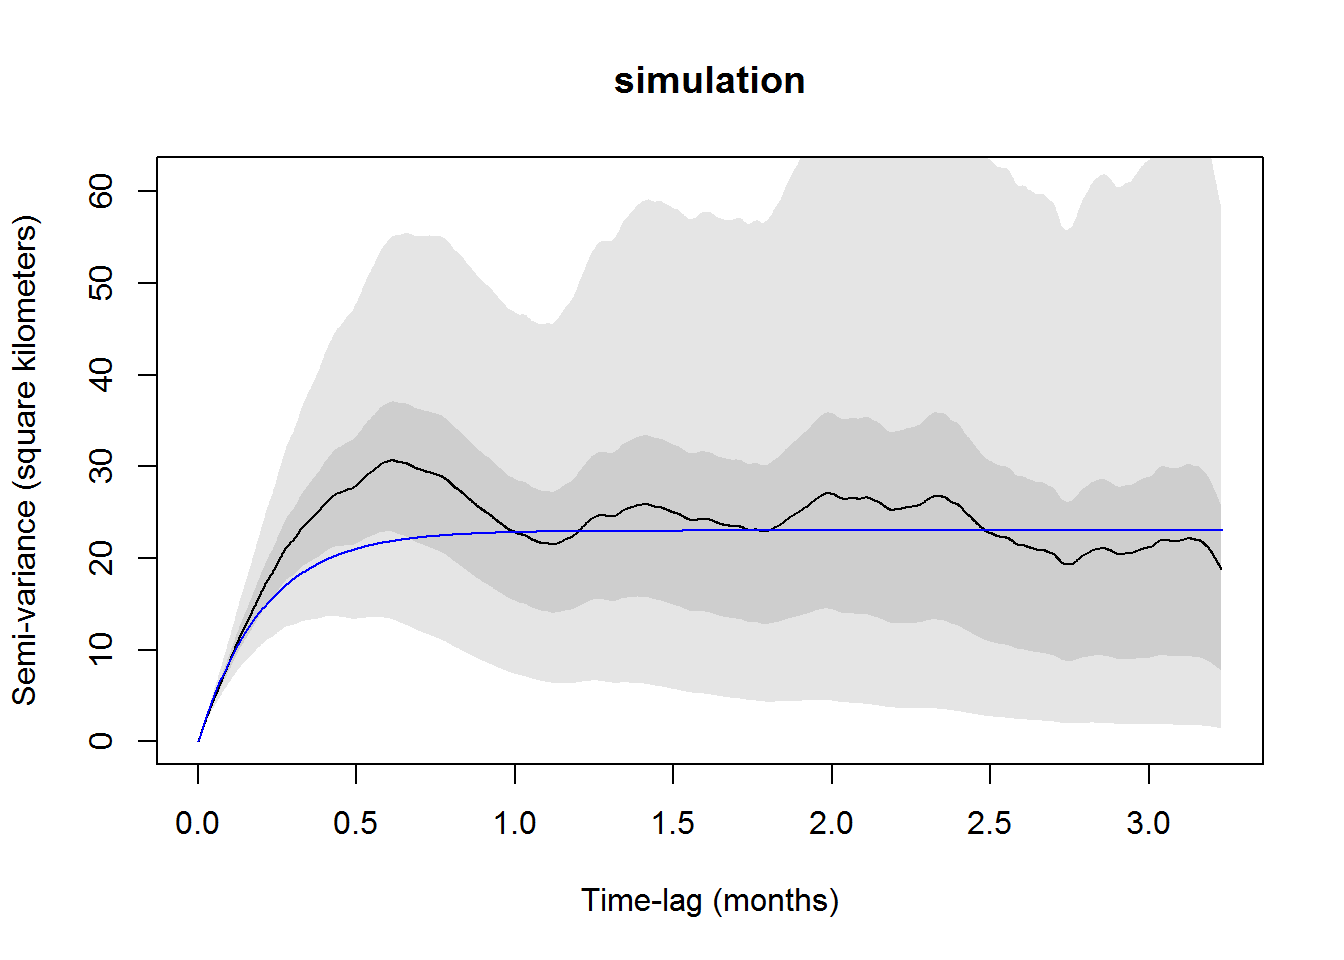
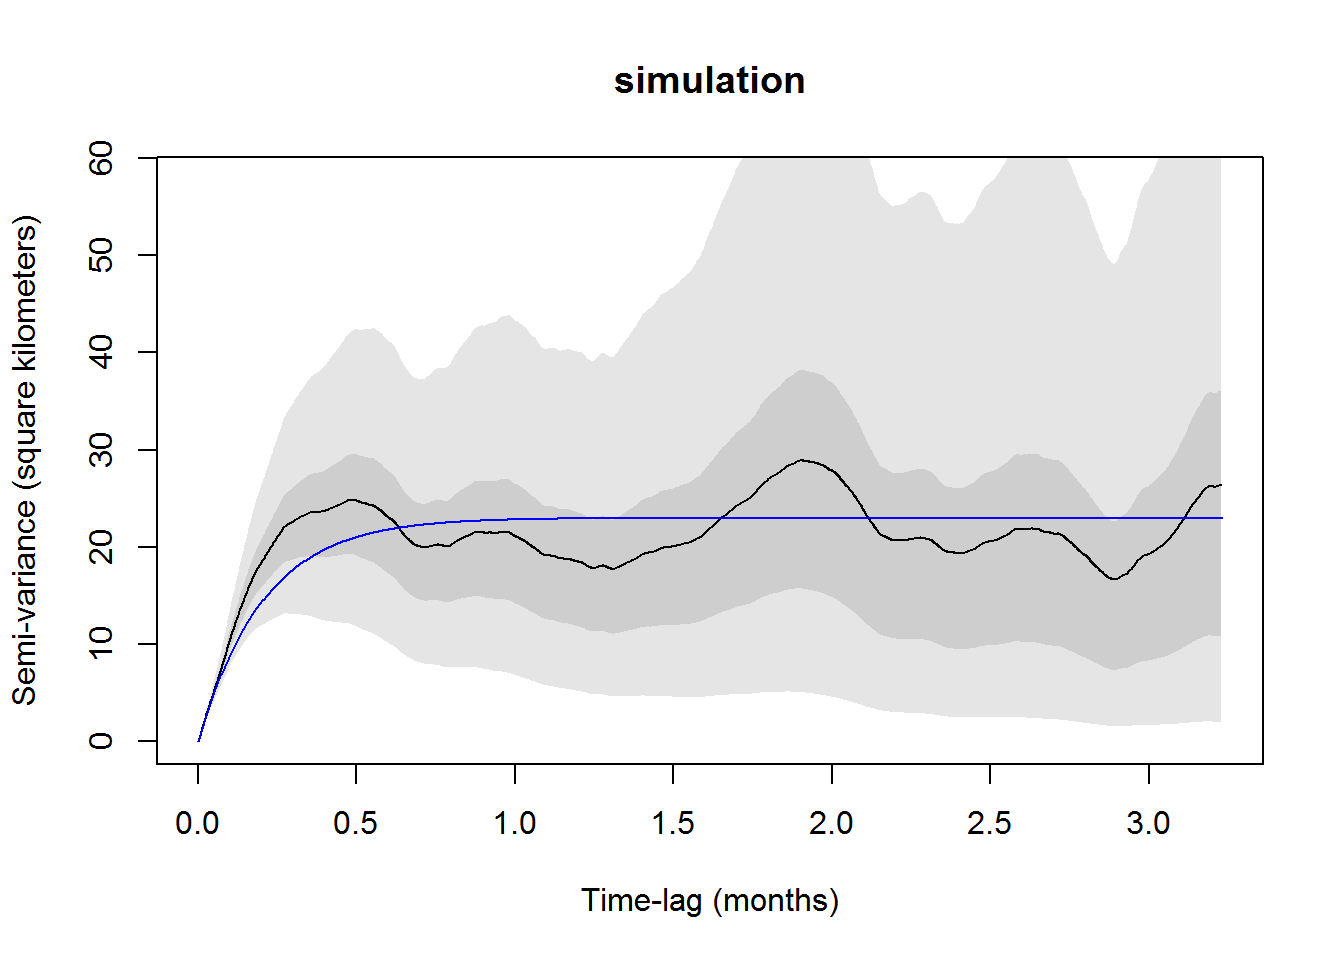
vignette units

diff --git a/inst/doc/variogram.html b/inst/doc/variogram.html
@@ -153,7 +153,7 @@ willa &lt;-<span class="st"> </span><span class="kw">simulate</span>(m.ouf,<span
 SVF2 &lt;-<span class="st"> </span><span class="kw">variogram</span>(willa)
 <span class="kw">plot</span>(SVF2,<span class="dt">CTMM=</span>m.ouf,<span class="dt">fraction=</span><span class="fl">0.65</span>,<span class="dt">level=</span>level,<span class="dt">col.CTMM=</span><span class="st">&quot;blue&quot;</span>)
 <span class="kw">title</span>(<span class="st">&quot;simulation&quot;</span>)</code></pre></div>
[2 lines of base64/hex data omitted]
 </div>
 <div id="irregular-sampling-schedules" class="section level3">
 <h3>Irregular Sampling Schedules</h3>
@@ -163,7 +163,7 @@ SVF3 &lt;-<span class="st"> </span><span class="kw">variogram</span>(gazelle[[<s
 <span class="kw">plot</span>(SVF3,<span class="dt">fraction=</span><span class="fl">0.85</span>,<span class="dt">level=</span>level)
 <span class="kw">title</span>(<span class="st">&quot;Default method&quot;</span>)
 <span class="co"># 1, 5, 25 hour sampling intervals</span>
-dt &lt;-<span class="st"> </span><span class="dv">60</span>*<span class="dv">60</span>*<span class="kw">c</span>(<span class="dv">1</span>,<span class="dv">5</span>,<span class="dv">25</span>)
+dt &lt;-<span class="st"> </span><span class="kw">c</span>(<span class="dv">1</span>,<span class="dv">5</span>,<span class="dv">25</span>) %#%<span class="st"> &quot;hour&quot;</span>
 SVF3 &lt;-<span class="st"> </span><span class="kw">variogram</span>(gazelle[[<span class="dv">18</span>]],<span class="dt">dt=</span>dt)
 <span class="kw">plot</span>(SVF3,<span class="dt">fraction=</span><span class="fl">0.85</span>,<span class="dt">level=</span>level)
 <span class="kw">title</span>(<span class="st">&quot;Multi method&quot;</span>)</code></pre></div>
@@ -173,10 +173,8 @@ SVF3 &lt;-<span class="st"> </span><span class="kw">variogram</span>(gazelle[[<s
 <div id="pooling-variograms" class="section level3">
 <h3>Pooling Variograms</h3>
 <p>If multiple individuals exhibit similar movement behaviors, then we can pool their individual variograms to create a more precise population variogram. You should be careful though, if the individual movement behaviors and sampling schedules are not identical, then there will be discontinuities at lags where one timeseries runs out of data.</p>
-<div class="sourceCode"><pre class="sourceCode r"><code class="sourceCode r"><span class="co"># 1 hour sampling intervals</span>
-dt =<span class="st"> </span><span class="dv">60</span>*<span class="dv">60</span>
-<span class="co"># buffalo 4 is bad</span>
-SVF4 &lt;-<span class="st"> </span><span class="kw">lapply</span>(buffalo[-<span class="dv">4</span>],function(b){ <span class="kw">variogram</span>(b,<span class="dt">dt=</span>dt) })
+<div class="sourceCode"><pre class="sourceCode r"><code class="sourceCode r"><span class="co"># buffalo 4 is bad</span>
+SVF4 &lt;-<span class="st"> </span><span class="kw">lapply</span>(buffalo[-<span class="dv">4</span>],variogram)
 SVF4 &lt;-<span class="st"> </span><span class="kw">mean</span>(SVF4)
 <span class="kw">plot</span>(SVF4,<span class="dt">fraction=</span><span class="fl">0.35</span>,<span class="dt">level=</span>level)
 <span class="kw">title</span>(<span class="st">&quot;Population variogram&quot;</span>)</code></pre></div>

diff --git a/docs/articles/variogram.html b/docs/articles/variogram.html
@@ -173,7 +173,7 @@ SVF3 &lt;-<span class="st"> </span><span class="kw"><a href="../reference/variog
 <span class="kw"><a href="../reference/plot.telemetry.html">plot</a></span>(SVF3,<span class="dt">fraction=</span><span class="fl">0.85</span>,<span class="dt">level=</span>level)
 <span class="kw">title</span>(<span class="st">"Default method"</span>)
 <span class="co"># 1, 5, 25 hour sampling intervals</span>
-dt &lt;-<span class="st"> </span><span class="dv">60</span>*<span class="dv">60</span>*<span class="kw">c</span>(<span class="dv">1</span>,<span class="dv">5</span>,<span class="dv">25</span>)
+dt &lt;-<span class="st"> </span><span class="kw">c</span>(<span class="dv">1</span>,<span class="dv">5</span>,<span class="dv">25</span>) %#%<span class="st"> "hour"</span>
 SVF3 &lt;-<span class="st"> </span><span class="kw"><a href="../reference/variogram.html">variogram</a></span>(gazelle[[<span class="dv">18</span>]],<span class="dt">dt=</span>dt)
 <span class="kw"><a href="../reference/plot.telemetry.html">plot</a></span>(SVF3,<span class="dt">fraction=</span><span class="fl">0.85</span>,<span class="dt">level=</span>level)
 <span class="kw">title</span>(<span class="st">"Multi method"</span>)</code></pre></div>
@@ -184,10 +184,8 @@ SVF3 &lt;-<span class="st"> </span><span class="kw"><a href="../reference/variog
 <h3 class="hasAnchor">
 <a href="#pooling-variograms" class="anchor"></a>Pooling Variograms</h3>
 <p>If multiple individuals exhibit similar movement behaviors, then we can pool their individual variograms to create a more precise population variogram. You should be careful though, if the individual movement behaviors and sampling schedules are not identical, then there will be discontinuities at lags where one timeseries runs out of data.</p>
-<div class="sourceCode"><pre class="sourceCode r"><code class="sourceCode r"><span class="co"># 1 hour sampling intervals</span>
-dt =<span class="st"> </span><span class="dv">60</span>*<span class="dv">60</span>
-<span class="co"># buffalo 4 is bad</span>
-SVF4 &lt;-<span class="st"> </span><span class="kw">lapply</span>(buffalo[-<span class="dv">4</span>],function(b){ <span class="kw"><a href="../reference/variogram.html">variogram</a></span>(b,<span class="dt">dt=</span>dt) })
+<div class="sourceCode"><pre class="sourceCode r"><code class="sourceCode r"><span class="co"># buffalo 4 is bad</span>
+SVF4 &lt;-<span class="st"> </span><span class="kw">lapply</span>(buffalo[-<span class="dv">4</span>],variogram)
 SVF4 &lt;-<span class="st"> </span><span class="kw">mean</span>(SVF4)
 <span class="kw"><a href="../reference/plot.telemetry.html">plot</a></span>(SVF4,<span class="dt">fraction=</span><span class="fl">0.35</span>,<span class="dt">level=</span>level)
 <span class="kw">title</span>(<span class="st">"Population variogram"</span>)</code></pre></div>
